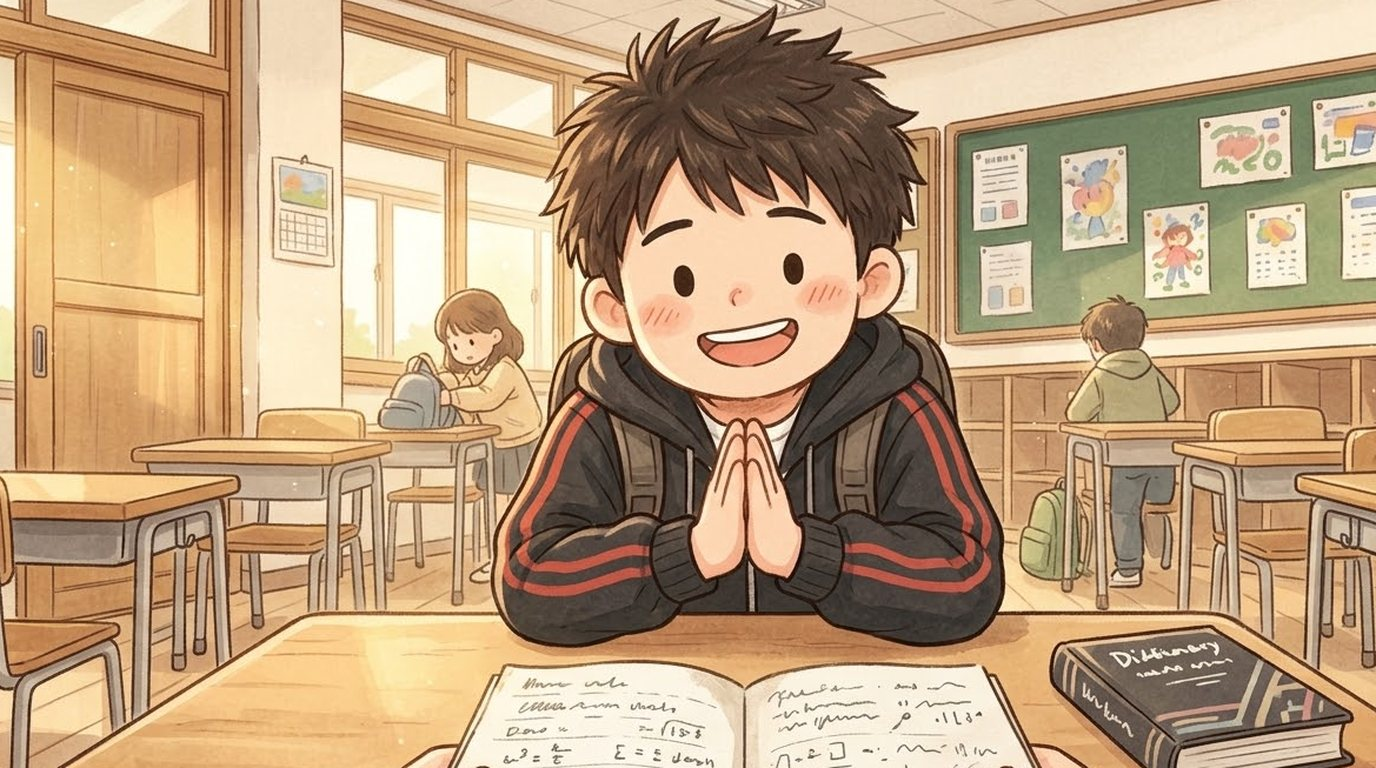
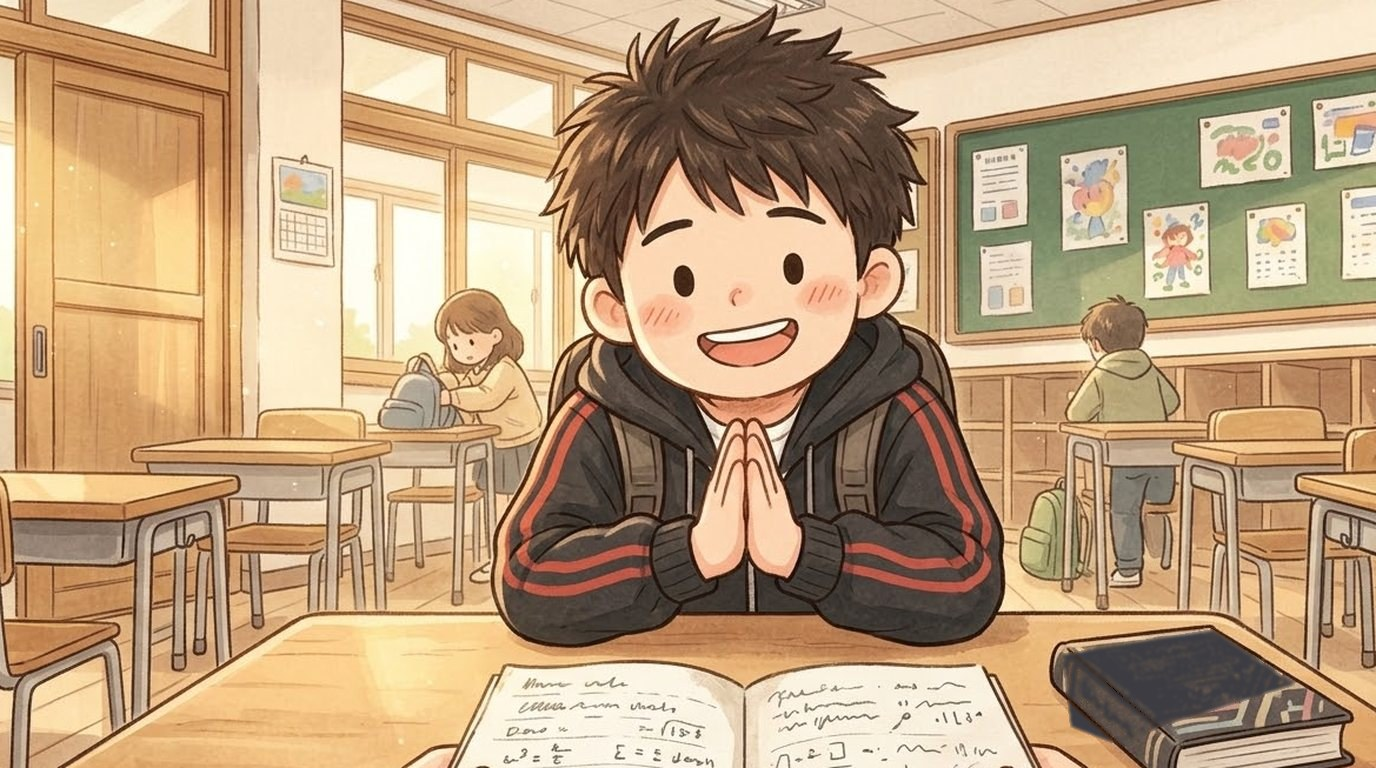
Minho meeting 11 picture: the English word on the dictionary cover is painted out (no letters in pictures)

Changed region(s): [[0.75, 0.8125, 0.9375, 0.9688]]

diff --git a/index.html b/index.html
@@ -119,14 +119,14 @@ body,button{word-break:keep-all;overflow-wrap:break-word}
 <div id="fader"></div>
 <script>
 // same address, newest version: if the page this phone has kept is older than the one online, fetch the new one and reopen
-const BUILD='1027162333';
+const BUILD='1027162514';
 try{fetch(location.pathname,{cache:'no-store'}).then(r=>r.text()).then(t=>{const m=t.match(/const BUILD='(\d+)'/);if(m&&m[1]!==BUILD&&sessionStorage.getItem('upd')!==m[1]){sessionStorage.setItem('upd',m[1]);fetch(location.pathname,{cache:'reload'}).then(()=>location.reload())}}).catch(()=>{})}catch(e){}
 </script>
-<script src="i18n.js?v=1027162333"></script>
-<script src="i18n_prologue_v2.js?v=1027162333"></script>
-<script src="day2/i18n_engine.js?v=1027162333"></script>
-<script src="day2/data.js?v=1027162333"></script>
-<script src="day3/data.js?v=1027162333"></script>
+<script src="i18n.js?v=1027162514"></script>
+<script src="i18n_prologue_v2.js?v=1027162514"></script>
+<script src="day2/i18n_engine.js?v=1027162514"></script>
+<script src="day2/data.js?v=1027162514"></script>
+<script src="day3/data.js?v=1027162514"></script>
 <script>
 // ---------- data ----------
 const MW=1672,MH=941,KID=180;
@@ -531,43 +531,43 @@ function pickHero(){const m=document.getElementById('modal'),c=document.getEleme
  c.innerHTML=`<h2>${tr('괴짜교실 반장되기')}</h2><p>${tr('말 한마디 못 하는 전학생,<br>반장 선거에 나가다.')}</p><p style="margin-top:14px">${tr('누구로 할까요?')}</p>${(()=>{const s=loadSave();return s&&s.day>=2&&s.mode===UI+'-'+LANG?`<p><button class="big" id="cont">${tr(s.day+'일차부터 이어 하기')}</button></p>`:''})()}<div class="pick heroes"><button data-h="hero_f"><img src="faces/hero_f_smile.jpg" alt="여자 주인공"></button><button data-h="hero_m"><img src="faces/hero_m_smile.jpg" alt="남자 주인공"></button></div>`;
  m.classList.add('on');{const cb=document.getElementById('cont');if(cb)cb.onclick=()=>{const s=loadSave();HERO=s.hero;Object.assign(HEART,s.heart||{});(s.found||[]).forEach(k=>FOUND.add(k));HEART_D1={...HEART};chime();(typeof contGame==='function'?contGame(s):startDay(Math.min(s.day,Object.keys(window.D3||{}).length?3:2)))}}c.querySelectorAll('.pick button').forEach(b=>b.onclick=()=>{HERO=b.dataset.h;m.classList.remove('on');chime();bgm('day');load('home_am');say([['nar','','이사 온 다음 날 아침. 아직 풀지 못한 상자들이 쌓여 있다.'],['think','sad','(오늘부터 새 학교야. 여기 말도 아직 서툰데…….)'],['think','smile','({m}한테 인사하고 학교 가야지.)']],morning)})}
 </script>
-<script src="day2/engine.js?v=1027162333"></script>
-<script src="day2/ep_minho.js?v=1027162333"></script>
-<script src="day2/i18n_meet.js?v=1027162333"></script>
-<script src="day2/meet.js?v=1027162333"></script>
-<script src="day2/ep_sua.js?v=1027162333"></script>
-<script src="day2/i18n_sua.js?v=1027162333"></script>
-<script src="day2/ep_hangyeol.js?v=1027162333"></script>
-<script src="day2/i18n_hangyeol.js?v=1027162333"></script>
-<script src="day2/ep_siwoo.js?v=1027162333"></script>
-<script src="day2/i18n_siwoo.js?v=1027162333"></script>
-<script src="day2/ep_haram.js?v=1027162333"></script>
-<script src="day2/i18n_haram.js?v=1027162333"></script>
-<script src="day2/ep_jiho.js?v=1027162333"></script>
-<script src="day2/i18n_jiho.js?v=1027162333"></script>
-<script src="day2/ep_hyeeun.js?v=1027162333"></script>
-<script src="day2/i18n_hyeeun.js?v=1027162333"></script>
-<script src="day2/ep_haneul.js?v=1027162333"></script>
-<script src="day2/i18n_haneul.js?v=1027162333"></script>
-<script src="day2/ep_junho.js?v=1027162333"></script>
-<script src="day2/i18n_junho.js?v=1027162333"></script>
-<script src="day2/ep_yuna.js?v=1027162333"></script>
-<script src="day2/i18n_yuna.js?v=1027162333"></script>
-<script src="day2/ep_yena.js?v=1027162333"></script>
-<script src="day2/i18n_yena.js?v=1027162333"></script>
-<script src="day2/ep_haeun.js?v=1027162333"></script>
-<script src="day2/i18n_haeun.js?v=1027162333"></script>
-<script src="day2/ep_youngmin.js?v=1027162333"></script>
-<script src="day2/i18n_youngmin.js?v=1027162333"></script>
-<script src="day2/ep_seah.js?v=1027162333"></script>
-<script src="day2/i18n_seah.js?v=1027162333"></script>
-<script src="day2/ep_jihoon.js?v=1027162333"></script>
-<script src="day2/i18n_jihoon.js?v=1027162333"></script>
-<script src="words_ja_ru.js?v=1027162333"></script>
-<script src="day2/mybag.js?v=1027162333"></script>
-<script src="day2/spots.js?v=1027162333"></script>
-<script src="day2/textfit.js?v=1027162333"></script>
-<script src="day2/tester.js?v=1027162333"></script>
+<script src="day2/engine.js?v=1027162514"></script>
+<script src="day2/ep_minho.js?v=1027162514"></script>
+<script src="day2/i18n_meet.js?v=1027162514"></script>
+<script src="day2/meet.js?v=1027162514"></script>
+<script src="day2/ep_sua.js?v=1027162514"></script>
+<script src="day2/i18n_sua.js?v=1027162514"></script>
+<script src="day2/ep_hangyeol.js?v=1027162514"></script>
+<script src="day2/i18n_hangyeol.js?v=1027162514"></script>
+<script src="day2/ep_siwoo.js?v=1027162514"></script>
+<script src="day2/i18n_siwoo.js?v=1027162514"></script>
+<script src="day2/ep_haram.js?v=1027162514"></script>
+<script src="day2/i18n_haram.js?v=1027162514"></script>
+<script src="day2/ep_jiho.js?v=1027162514"></script>
+<script src="day2/i18n_jiho.js?v=1027162514"></script>
+<script src="day2/ep_hyeeun.js?v=1027162514"></script>
+<script src="day2/i18n_hyeeun.js?v=1027162514"></script>
+<script src="day2/ep_haneul.js?v=1027162514"></script>
+<script src="day2/i18n_haneul.js?v=1027162514"></script>
+<script src="day2/ep_junho.js?v=1027162514"></script>
+<script src="day2/i18n_junho.js?v=1027162514"></script>
+<script src="day2/ep_yuna.js?v=1027162514"></script>
+<script src="day2/i18n_yuna.js?v=1027162514"></script>
+<script src="day2/ep_yena.js?v=1027162514"></script>
+<script src="day2/i18n_yena.js?v=1027162514"></script>
+<script src="day2/ep_haeun.js?v=1027162514"></script>
+<script src="day2/i18n_haeun.js?v=1027162514"></script>
+<script src="day2/ep_youngmin.js?v=1027162514"></script>
+<script src="day2/i18n_youngmin.js?v=1027162514"></script>
+<script src="day2/ep_seah.js?v=1027162514"></script>
+<script src="day2/i18n_seah.js?v=1027162514"></script>
+<script src="day2/ep_jihoon.js?v=1027162514"></script>
+<script src="day2/i18n_jihoon.js?v=1027162514"></script>
+<script src="words_ja_ru.js?v=1027162514"></script>
+<script src="day2/mybag.js?v=1027162514"></script>
+<script src="day2/spots.js?v=1027162514"></script>
+<script src="day2/textfit.js?v=1027162514"></script>
+<script src="day2/tester.js?v=1027162514"></script>
 <script>
 // the goal shows big for a few seconds, then folds into a small pill (tap it to open it again)
 {const g=document.getElementById('goal');let t=null;const big=()=>{g.classList.remove('mini');clearTimeout(t);t=setTimeout(()=>g.classList.add('mini'),4000)};
